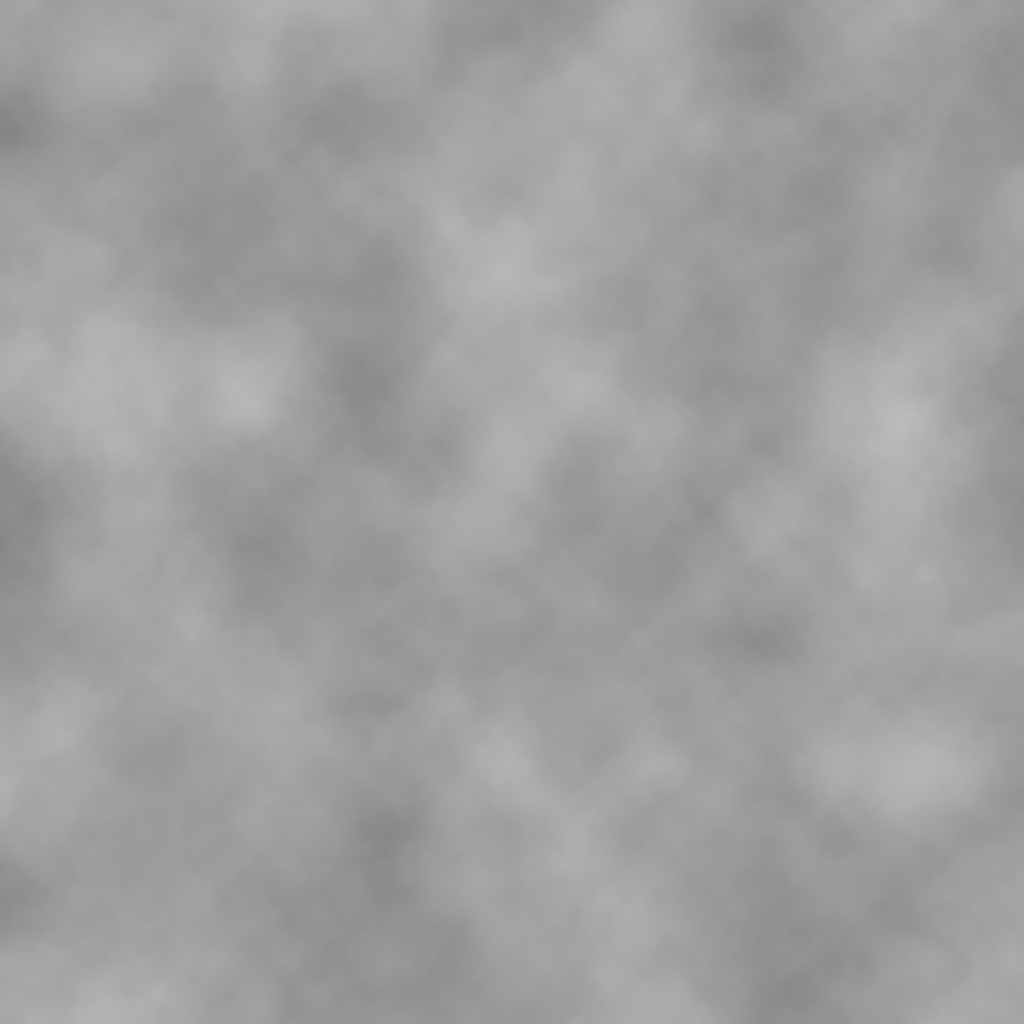
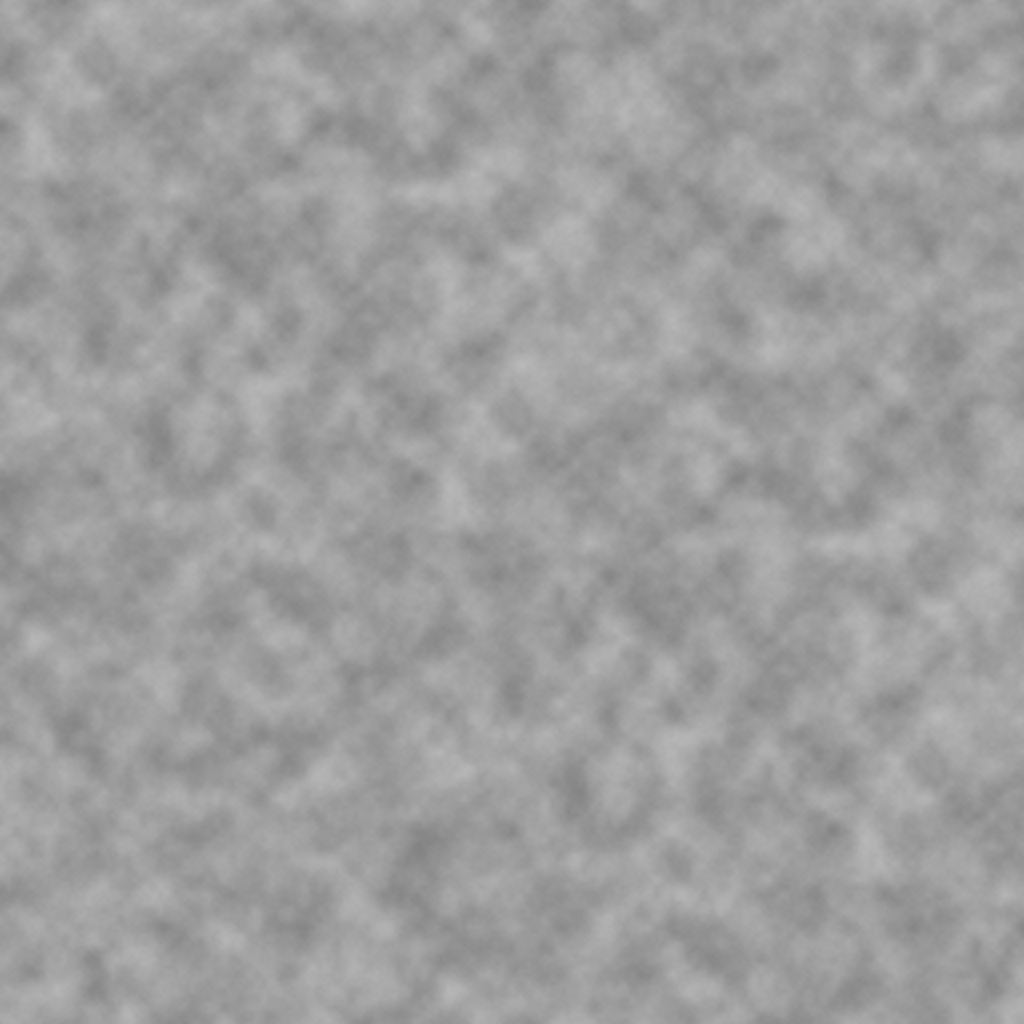
Using a slightly darker light gradient for light offers a nicer tone on the untextured ground.

diff --git a/NoelSkum/Assets/Scripts/Terrain/Editor/PlanetDataGenerator.cs b/NoelSkum/Assets/Scripts/Terrain/Editor/PlanetDataGenerator.cs
@@ -82,7 +82,7 @@ public class PlanetDataGenerator : EditorWindow {
 
     static public float EvaluateBiCubic(int x, int y, RandomSeed r)
     {
-        int degree = 15;
+        int degree = 13;
         float value = 0f;
 
         for (int d = 8; d < degree; d++)
